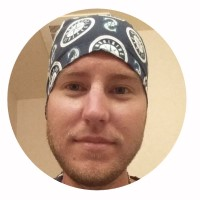
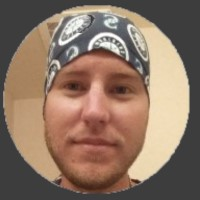
Minor bug fixes and changed to dark mode.

diff --git a/draft/helper.php b/draft/helper.php
@@ -221,7 +221,7 @@
                                         &nbsp;|&nbsp;
                                         <a id="restartDraft">Restart Draft</a>
                                     </div>
-                                    <table class="table table-responsive" id="datatable-players">
+                                    <table class="table table-responsive" id="datatable-players" width="100%">
                                         <thead>
                                             <th>My Rank</th>
                                             <th>ADP</th>
@@ -240,6 +240,7 @@
                                             <th>Rec</th>
                                             <th>Proj Pts</th>
                                             <th></th>
+                                            <th>Pos</th>
                                         </thead>
                                         <tbody>
                                             <?php
@@ -252,11 +253,15 @@
                                                 ORDER BY my_rank ASC"
                                             );
                                             while ($row = mysqli_fetch_array($result)) {
+
+                                                $sosColor = ($row['sos'] > 25) ? 'bad' : ($row['sos'] < 7 ? 'good' : '');
+                                                $lineColor = ($row['position'] != 'DEF') ? (($row['line'] > 25) ? 'bad' : ($row['line'] < 7 ? 'good' : '')) : '';
+
                                                 $count++;
                                                 if (in_array($count, $allMyNextPicks)) {
                                                     $myRank = $row['my_rank']+2;
                                                     echo '<tr class="color-black"><td>'.$myRank.'</td><td></td><td></td><td></td><td></td><td></td><td></td>
-                                                    <td></td><td></td><td></td><td></td><td></td><td></td><td></td><td></td><td></td><td></td></tr>';
+                                                    <td></td><td></td><td></td><td></td><td></td><td></td><td></td><td></td><td></td><td></td><td></td></tr>';
                                                 }
                                             ?>
                                                 <tr class="color-<?php echo $row['position']; ?>">
@@ -265,8 +270,8 @@
                                                     <td><?php echo '<a data-toggle="modal" data-target="#player-data" onclick="showPlayerData('.(int)$row[0].')">'.$row['player'].'</a>'; ?></td>
                                                     <td><?php echo $row['team']; ?></td>
                                                     <td><?php echo $row['bye']; ?></td>
-                                                    <td class="color-<?php echo ($row['sos'] > 25) ? 'bad' : ($row['sos'] < 7 ? 'good' : ''); ?>"><?php echo $row['sos']; ?></td>
-                                                    <td class="color-<?php echo ($row['line'] > 25) ? 'bad' : ($row['line'] < 7 ? 'good' : ''); ?>"><?php echo $row['line']; ?></td>
+                                                    <td class="color-<?php echo $sosColor; ?>"><?php echo $row['sos']; ?></td>
+                                                    <td class="color-<?php echo $lineColor; ?>"><?php echo ($row['position'] != 'DEF') ? $row['line'] : ''; ?></td>
                                                     <td><?php echo $row['tier']; ?></td>
                                                     <td><a class="btn btn-secondary taken">Taken</a><a class="btn btn-secondary mine">Mine!</a></td>
                                                     <td><?php echo $row['games_played']; ?></td>
@@ -277,6 +282,7 @@
                                                     <td><?php echo $row['rec_receptions']; ?></td>
                                                     <td><?php echo $row['proj_points']; ?></td>
                                                     <td><?php echo desigIcon($row['designation'], $row['notes'] ? true : false); ?></td>
+                                                    <td><?php echo $row['position']; ?></td>
                                                 </tr>
                                             <?php } ?>
                                         </tbody>
@@ -381,18 +387,22 @@
     myPlayers = JSON.parse(myPlayers);
 
     var playersTable = $('#datatable-players').DataTable({
+        "autoWidth": true,
         "pageLength": 20,
         "order": [
             [0, "asc"]
         ]
     });
+
+    playersTable.columns(17).visible(false);
+    playersTable.columns.adjust().draw();
+
     var teamTable = $('#datatable-team').DataTable({
         "searching": false,
         "paging": false,
         "info": false,
         "sort": false
     });
-
 
     $(document).ready(function() {
 
@@ -450,7 +460,6 @@
             }
         });
 
-
         $('#hide-te').click(function () {
             doSearch('TE');
         });
@@ -463,19 +472,6 @@
             doSearch('K');
         });
 
-        function checkByes(data)
-        {
-            let players = myPlayers.length;
-            if (players) {
-                let count = myPlayers.filter(x => x == data[5]).length;
-                if (count/players > .2) {
-                    return false;
-                }
-            }
-
-            return true;
-        }
-
         var posArray = [];
         function doSearch(pos) {
             posArray.push(pos);
@@ -486,10 +482,8 @@
             });
             regex += '.)*$';
 
-            playersTable.columns([3]).search(regex, true, false).draw();
+            playersTable.columns([17]).search(regex, true, false).draw();
         }
-
-
 
         $('#undoPick').click(function () {
             if (confirm('Are you sure?')) {
@@ -529,6 +523,19 @@
             }
         });
     });
+
+    function checkByes(data)
+    {
+        let players = myPlayers.length;
+        if (players) {
+            let count = myPlayers.filter(x => x == data[4]).length;
+            if (count/players > .2) {
+                return false;
+            }
+        }
+
+        return true;
+    }
 
     function saveSelection(formData)
     {
@@ -633,6 +640,7 @@
                 table += '<th>Pass Att</th><th>Comp</th><th>Pass Yds</th><th>Pass TDs</th><th>Int</th>';
                 table += '<th>Rush Att</th><th>Rush Yds</th><th>Rush TDs</th>';
                 table += '<th>Tar</th><th>Rec</th><th>Rec Yds</th><th>Rec TDs</th><th>Fumbles</th>';
+                table += '<th>Pts</th><th>Pts/Gm</th>';
                 table += '</thead><tbody>';
 
                 data = JSON.parse(data);
@@ -645,6 +653,11 @@
                         $('#player-notes').val(item.notes);
                         $('#player-id').val(item.id);
                     } else {
+
+                        let points = (item.pass_yards*.04)+(item.pass_touchdowns*4)+(item.rush_yards*.1)+(item.pass_touchdowns*6);
+                        points += (item.rec_yards*.1)+(item.rec_touchdowns*6)+(item.rec_receptions*.5);
+                        points -= (item.pass_interceptions*2)+(item.fumbles*3);
+                        let ppg = (points/item.games_played).toFixed(1);
                         table += '<tr>'+
                             '<td>'+item.year+'</td>'+
                             '<td>'+item.team_abbr+'</td>'+
@@ -661,7 +674,9 @@
                             '<td>'+item.rec_receptions+'</td>'+
                             '<td>'+item.rec_yards+'</td>'+
                             '<td>'+item.rec_touchdowns+'</td>'+
-                            '<td>'+item.fumbles+'</td>';
+                            '<td>'+item.fumbles+'</td>'+
+                            '<td>'+points.toFixed(0)+'</td>'+
+                            '<td>'+ppg+'</td>';
                     }
                 });
 
@@ -690,8 +705,17 @@
 
 <style>
     .app-content.container-fluid {
-        background: white;
+        background: #3E3D3E;
         direction: ltr;
+    }
+
+    .card, th, table.dataTable {
+        background: #3E3D3E;
+        color: #fff;
+    }
+
+    td, .card-header {
+        color: #3E3D3E;
     }
 
     a.btn.btn-secondary {
@@ -702,8 +726,8 @@
         color: black;
     }
 
-    a:hover {
-        color: white;
+    a:hover, .card-body label, .dataTables_info {
+        color: white !important;
     }
 
     .strike {
@@ -764,7 +788,8 @@
     .meter {
         height: 40px;
         width: 20px;
-        background: #fff;
+        background: #3E3D3E;
+        color: #fff;
     }
 
     .meter span {
@@ -772,4 +797,8 @@
         font-size: 11px;
     }
 
+    .modal-content {
+        background-color: #3E3D3E;
+        color: #fff;
+    }
 </style>

diff --git a/draft/modals.php b/draft/modals.php
@@ -234,19 +234,19 @@
                                     max(case when position = 'QB' and depth = 1 then player ELSE '' end) as QB1,
                                     max(case when position = 'QB' and depth = 1 AND ranking_id IS NOT null then player ELSE '' end) as QB1p,
                                     max(case when position = 'QB' and depth = 2 then player ELSE '' end) as QB2,
-                                    max(case when position = 'QB' and depth = 1 AND ranking_id IS NOT null then player ELSE '' end) as QB2p,
+                                    max(case when position = 'QB' and depth = 2 AND ranking_id IS NOT null then player ELSE '' end) as QB2p,
                                     max(case when position = 'RB' and depth = 1 then player ELSE '' end) as RB1,
                                     max(case when position = 'RB' and depth = 1 AND ranking_id IS NOT null then player ELSE '' end) as RB1p,
                                     max(case when position = 'RB' and depth = 2 then player ELSE '' end) as RB2,
-                                    max(case when position = 'RB' and depth = 1 AND ranking_id IS NOT null then player ELSE '' end) as RB2p,
+                                    max(case when position = 'RB' and depth = 2 AND ranking_id IS NOT null then player ELSE '' end) as RB2p,
                                     max(case when position = 'WR' and depth = 1 then player ELSE '' end) as WR1,
                                     max(case when position = 'WR' and depth = 1 AND ranking_id IS NOT null then player ELSE '' end) as WR1p,
                                     max(case when position = 'WR' and depth = 2 then player ELSE '' end) as WR2,
-                                    max(case when position = 'WR' and depth = 1 AND ranking_id IS NOT null then player ELSE '' end) as WR2p,
+                                    max(case when position = 'WR' and depth = 2 AND ranking_id IS NOT null then player ELSE '' end) as WR2p,
                                     max(case when position = 'WR' and depth = 3 then player ELSE '' end) as WR3,
-                                    max(case when position = 'WR' and depth = 1 AND ranking_id IS NOT null then player ELSE '' end) as WR3p,
+                                    max(case when position = 'WR' and depth = 3 AND ranking_id IS NOT null then player ELSE '' end) as WR3p,
                                     max(case when position = 'WR' and depth = 4 then player ELSE '' end) as WR4,
-                                    max(case when position = 'WR' and depth = 1 AND ranking_id IS NOT null then player ELSE '' end) as WR4p,
+                                    max(case when position = 'WR' and depth = 4 AND ranking_id IS NOT null then player ELSE '' end) as WR4p,
                                     max(case when position = 'TE' and depth = 1 then player ELSE '' end) as TE1,
                                     max(case when position = 'TE' and depth = 1 AND ranking_id IS NOT null then player ELSE '' end) as TE1p,
                                     max(case when position = 'K' then player ELSE '' end) as K,
@@ -262,7 +262,7 @@
                                         <td class="color-QB <?php echo $row['QB1'] == $row['QB1p'] ? 'color-gray' : ''; ?>"><?php echo $row['QB1']; ?></td>
                                         <td class="color-QB <?php echo $row['QB2'] == $row['QB2p'] ? 'color-gray' : ''; ?>"><?php echo $row['QB2']; ?></td>
                                         <td class="color-RB <?php echo $row['RB1'] == $row['RB1p'] ? 'color-gray' : ''; ?>"><?php echo $row['RB1']; ?></td>
-                                        <td class="color-RB <?php echo $row['RB1'] == $row['RB2p'] ? 'color-gray' : ''; ?>"><?php echo $row['RB2']; ?></td>
+                                        <td class="color-RB <?php echo $row['RB2'] == $row['RB2p'] ? 'color-gray' : ''; ?>"><?php echo $row['RB2']; ?></td>
                                         <td class="color-WR <?php echo $row['WR1'] == $row['WR1p'] ? 'color-gray' : ''; ?>"><?php echo $row['WR1']; ?></td>
                                         <td class="color-WR <?php echo $row['WR2'] == $row['WR2p'] ? 'color-gray' : ''; ?>"><?php echo $row['WR2']; ?></td>
                                         <td class="color-WR <?php echo $row['WR3'] == $row['WR3p'] ? 'color-gray' : ''; ?>"><?php echo $row['WR3']; ?></td>

diff --git a/draft/players.php b/draft/players.php
@@ -216,6 +216,7 @@
                 table += '<th>Pass Att</th><th>Comp</th><th>Pass Yds</th><th>Pass TDs</th><th>Int</th>';
                 table += '<th>Rush Att</th><th>Rush Yds</th><th>Rush TDs</th>';
                 table += '<th>Tar</th><th>Rec</th><th>Rec Yds</th><th>Rec TDs</th><th>Fumbles</th>';
+                table += '<th>Pts</th><th>Pts/Gm</th>';
                 table += '</thead><tbody>';
 
                 data = JSON.parse(data);
@@ -228,6 +229,11 @@
                         $('#player-notes').val(item.notes);
                         $('#player-id').val(item.id);
                     } else {
+                        let points = (item.pass_yards*.04)+(item.pass_touchdowns*4)+(item.rush_yards*.1)+(item.pass_touchdowns*6);
+                        points += (item.rec_yards*.1)+(item.rec_touchdowns*6)+(item.rec_receptions*.5);
+                        points -= (item.pass_interceptions*2)+(item.fumbles*3);
+                        let ppg = (points/item.games_played).toFixed(1);
+
                         table += '<tr>'+
                         '<td>'+item.year+'</td>'+
                         '<td>'+item.team_abbr+'</td>'+
@@ -244,7 +250,9 @@
                         '<td>'+item.rec_receptions+'</td>'+
                         '<td>'+item.rec_yards+'</td>'+
                         '<td>'+item.rec_touchdowns+'</td>'+
-                        '<td>'+item.fumbles+'</td></tr>';
+                        '<td>'+item.fumbles+'</td>'+
+                        '<td>'+points.toFixed(0)+'</td>'+
+                        '<td>'+ppg+'</td>';
                     }
                 });
 
@@ -283,42 +291,6 @@
 
     .mine {
         background-color: #8cfa84;
-    }
-
-    .color-gray td, .color-gray {
-        background-color: lightgray;
-    }
-
-    .color-QB td, .color-QB {
-        background-color: aquamarine;
-    }
-
-    .color-RB td, .color-RB {
-        background-color: burlywood;
-    }
-
-    .color-WR td, .color-WR {
-        background-color: #fa9cff;
-    }
-
-    .color-TE td, .color-TE {
-        background-color: #69cfff;
-    }
-
-    .color-DEF td, .color-DEF {
-        background-color: #dffcde;
-    }
-
-    .color-K td, .color-K {
-        background-color: #f7cbcc;
-    }
-
-    .color-D td, .color-DB td, .color-D, .color-DB {
-        background-color: #fcf8b3;
-    }
-
-    .modal-lg {
-        max-width: 90%;
     }
 
     table#player-history td, th {

diff --git a/draft/fetchMore.php b/draft/fetchMore.php
@@ -42,7 +42,7 @@
                                     <th>Team</th>
                                     <th>Bye</th>
                                     <th>SoS</th>
-                                    <th>line</th>
+                                    <th>Line</th>
                                     <th>Tier</th>
                                     <th>Diff</th>
                                     <th></th>
